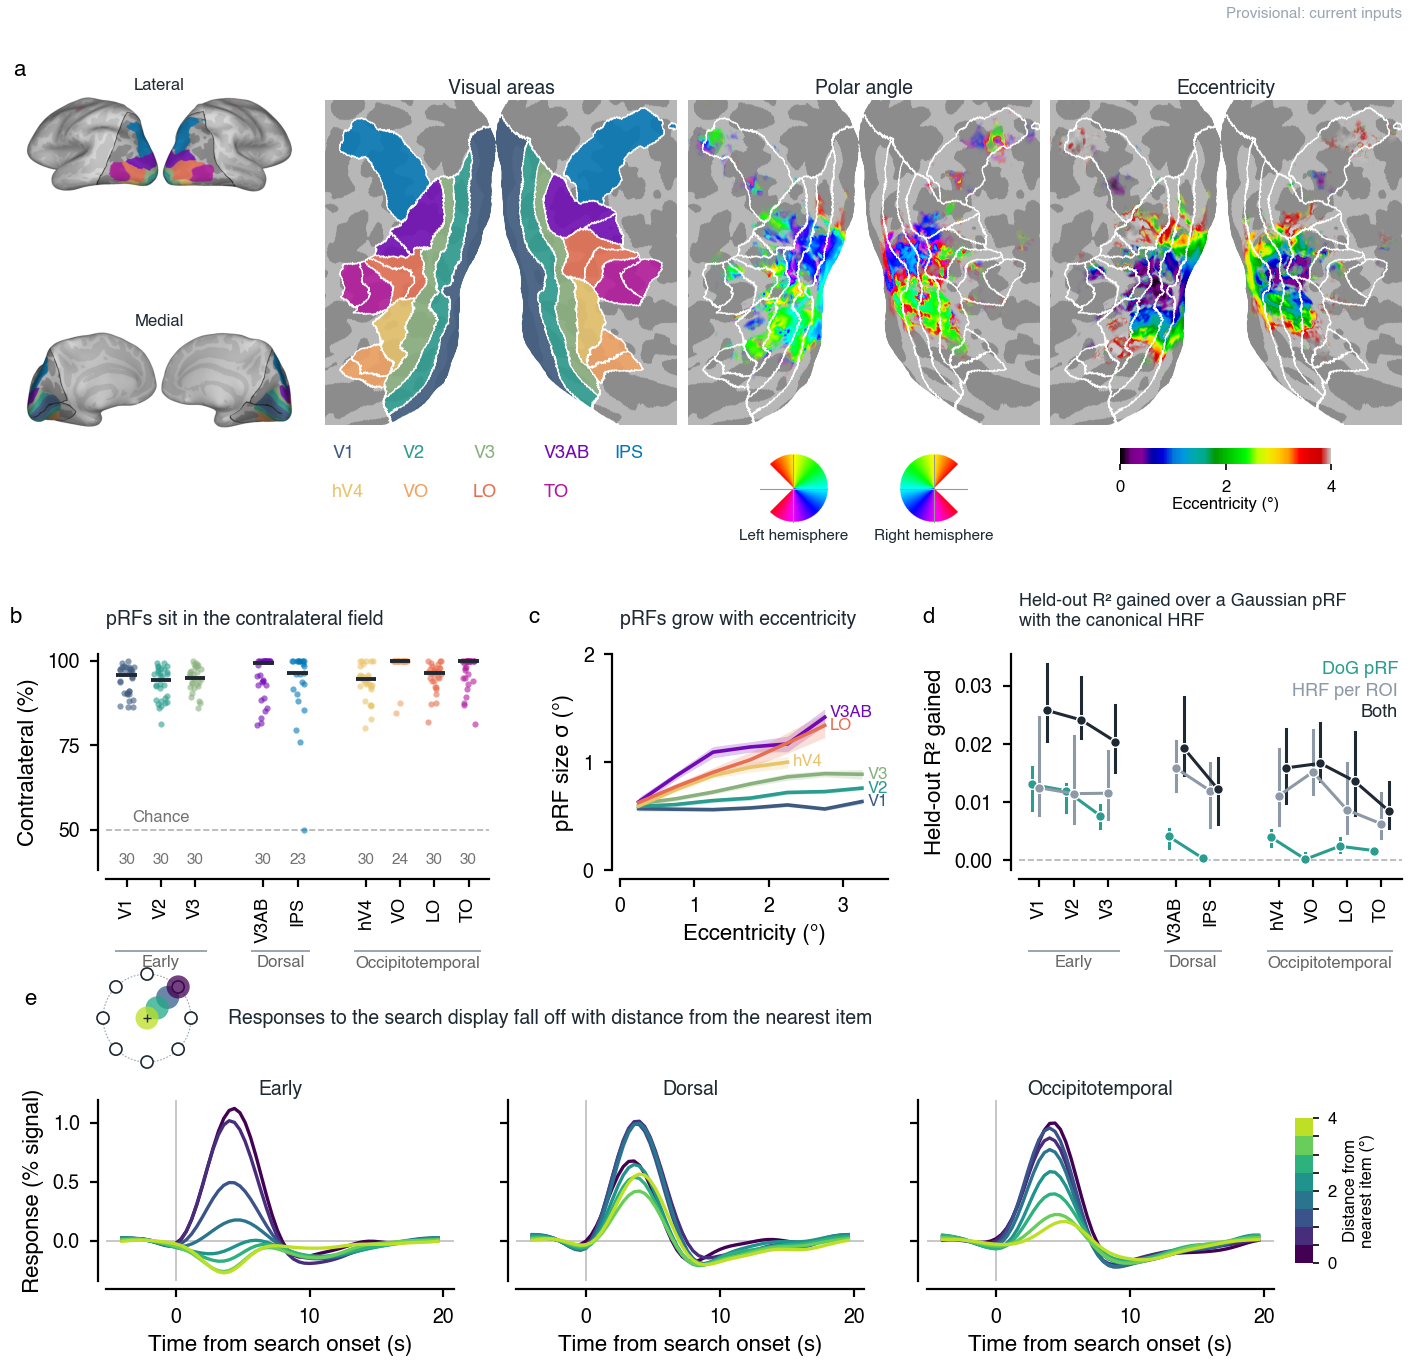
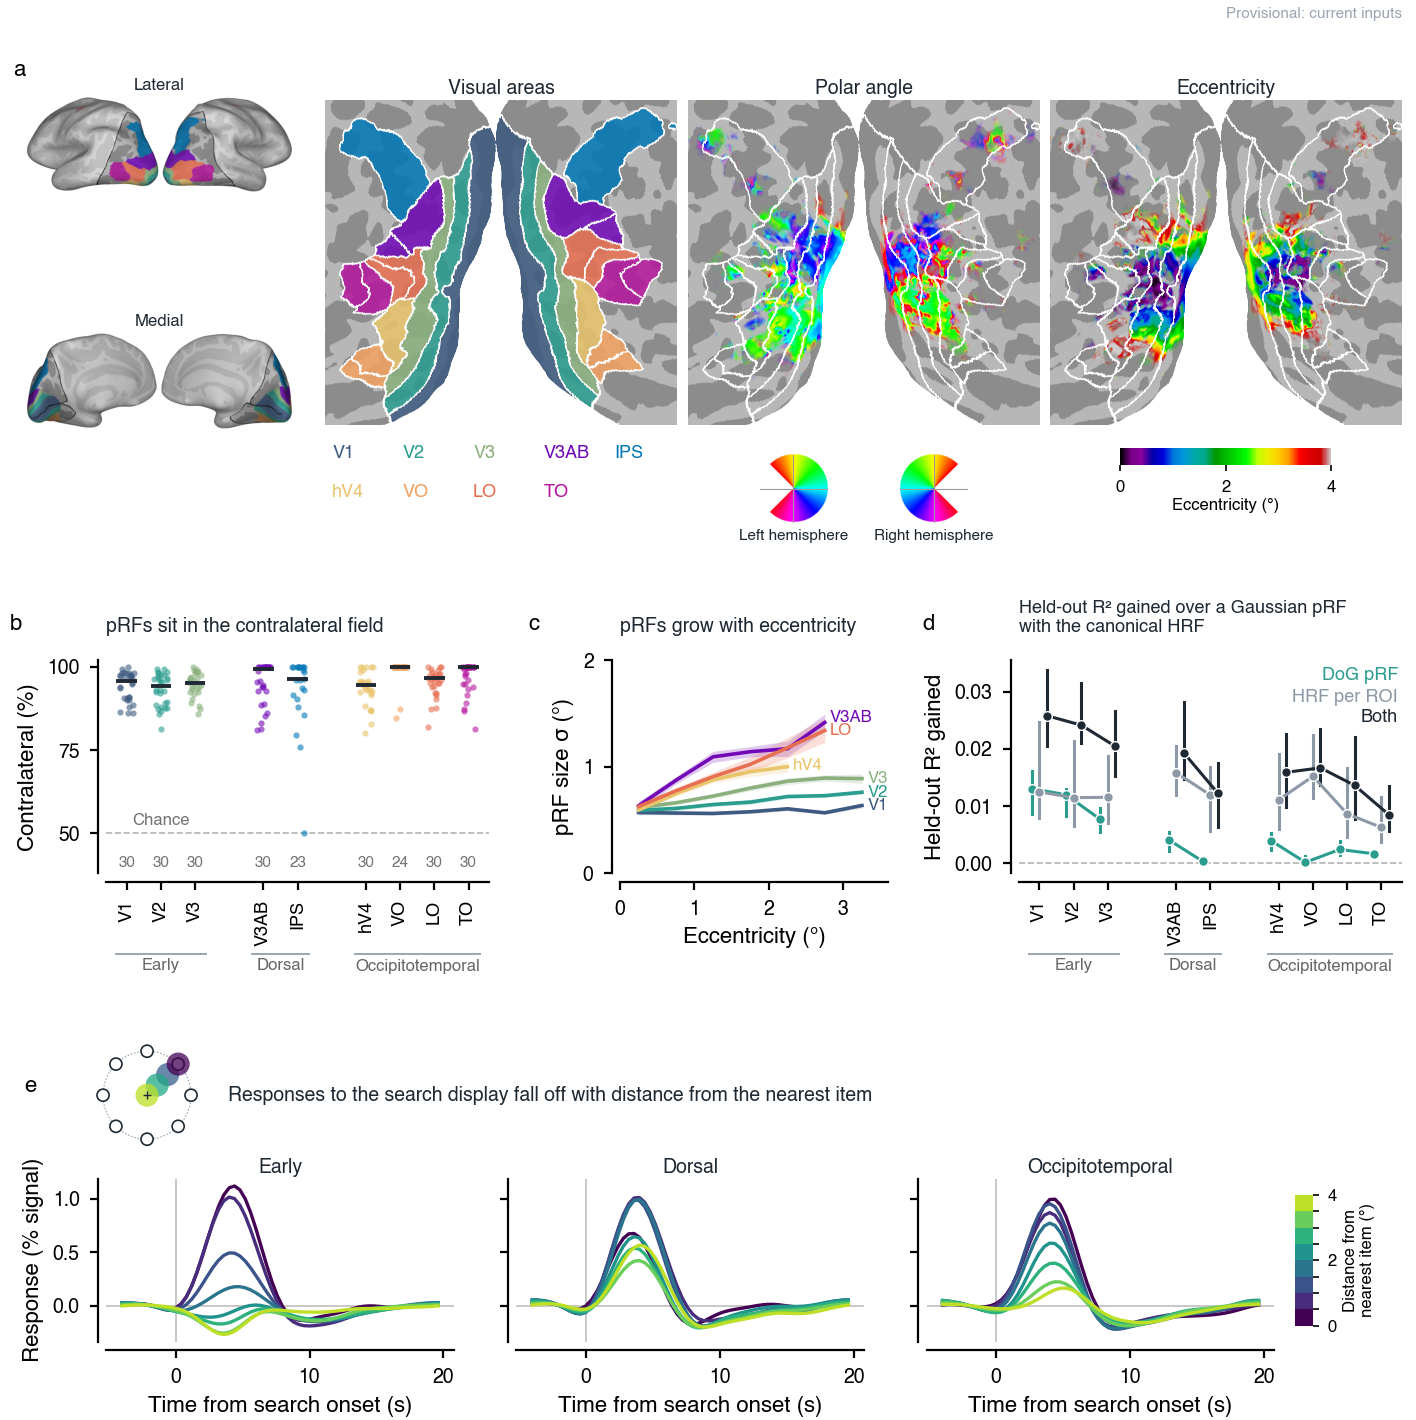
Fig. 3: room between the b-d row and e

diff --git a/retsupp/visualize/paper/fig3_prf_fits.py b/retsupp/visualize/paper/fig3_prf_fits.py
@@ -338,12 +338,12 @@ def distance_icon(fig, x0, y0, size, n_bins=8):
 
 def main(cv_table, hrf_table, loso_table, name='fig3_prf_fits'):
     d, base = gain_r2(cv_table, hrf_table)
-    fig = plt.figure(figsize=(DOUBLE, 6.8))
-    top = fig.add_gridspec(1, 2, width_ratios=[.27, 1], left=.01, right=.99, top=0.963, bottom=0.651, wspace=.03)
+    fig = plt.figure(figsize=(DOUBLE, 7.1))
+    top = fig.add_gridspec(1, 2, width_ratios=[.27, 1], left=.01, right=.99, top=0.965, bottom=0.665, wspace=.03)
     first = panel_flat_window(fig, top[0])
     letter(first, 'a', x=.04, y=1.12)
     panel_maps(fig, top[1])
-    mid = fig.add_gridspec(1, 3, width_ratios=[1, .7, 1], left=.075, right=.99, top=0.519, bottom=0.360, wspace=.38)
+    mid = fig.add_gridspec(1, 3, width_ratios=[1, .7, 1], left=.075, right=.99, top=0.535, bottom=0.385, wspace=.38)
     ax = fig.add_subplot(mid[0])
     panel_contra(ax)
     ax.text(0, 1.16, 'pRFs sit in the contralateral field', transform=ax.transAxes, fontsize=7, color=FG, va='center')
@@ -358,7 +358,7 @@ def main(cv_table, hrf_table, loso_table, name='fig3_prf_fits'):
             color=FG, va='center', linespacing=1.2)
     letter(ax, 'd', x=-.22, y=1.12)
     fig.text(.99, .995, 'Provisional: current inputs', fontsize=5.5, color=MUTED, ha='right', va='top')
-    low = fig.add_gridspec(1, 1, left=.075, right=.9, top=0.191, bottom=0.058)
+    low = fig.add_gridspec(1, 1, left=.075, right=.9, top=0.17, bottom=0.055)
     first = panel_distance_tc(fig, low[0])
     if first is not None:
         bb = first.get_position()
